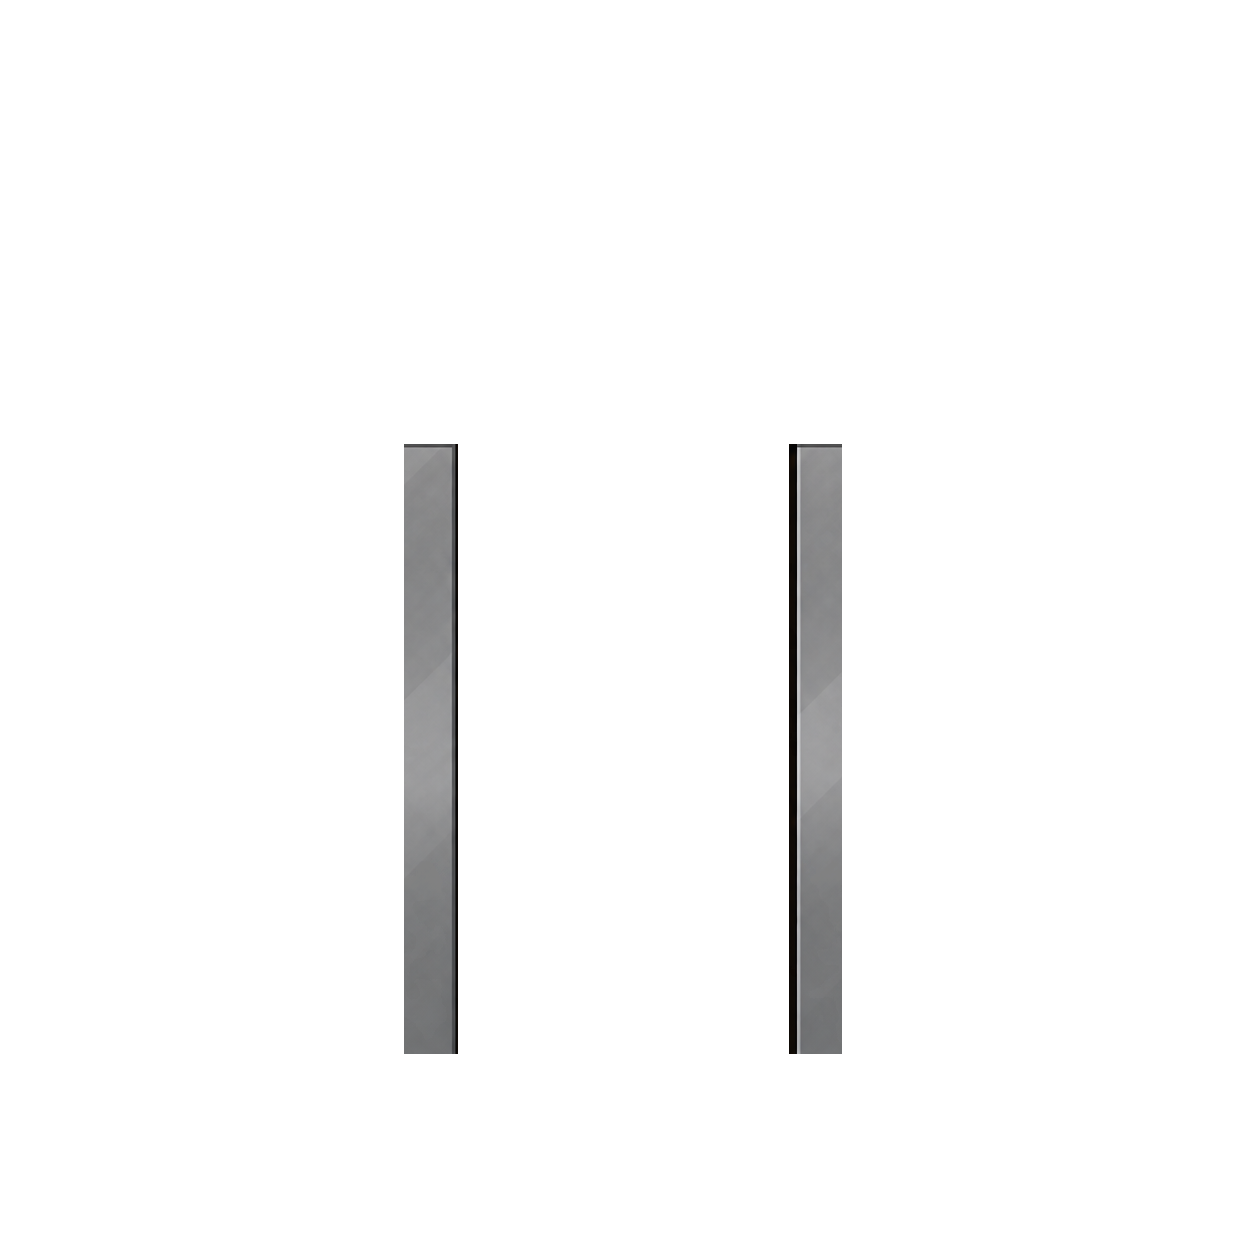
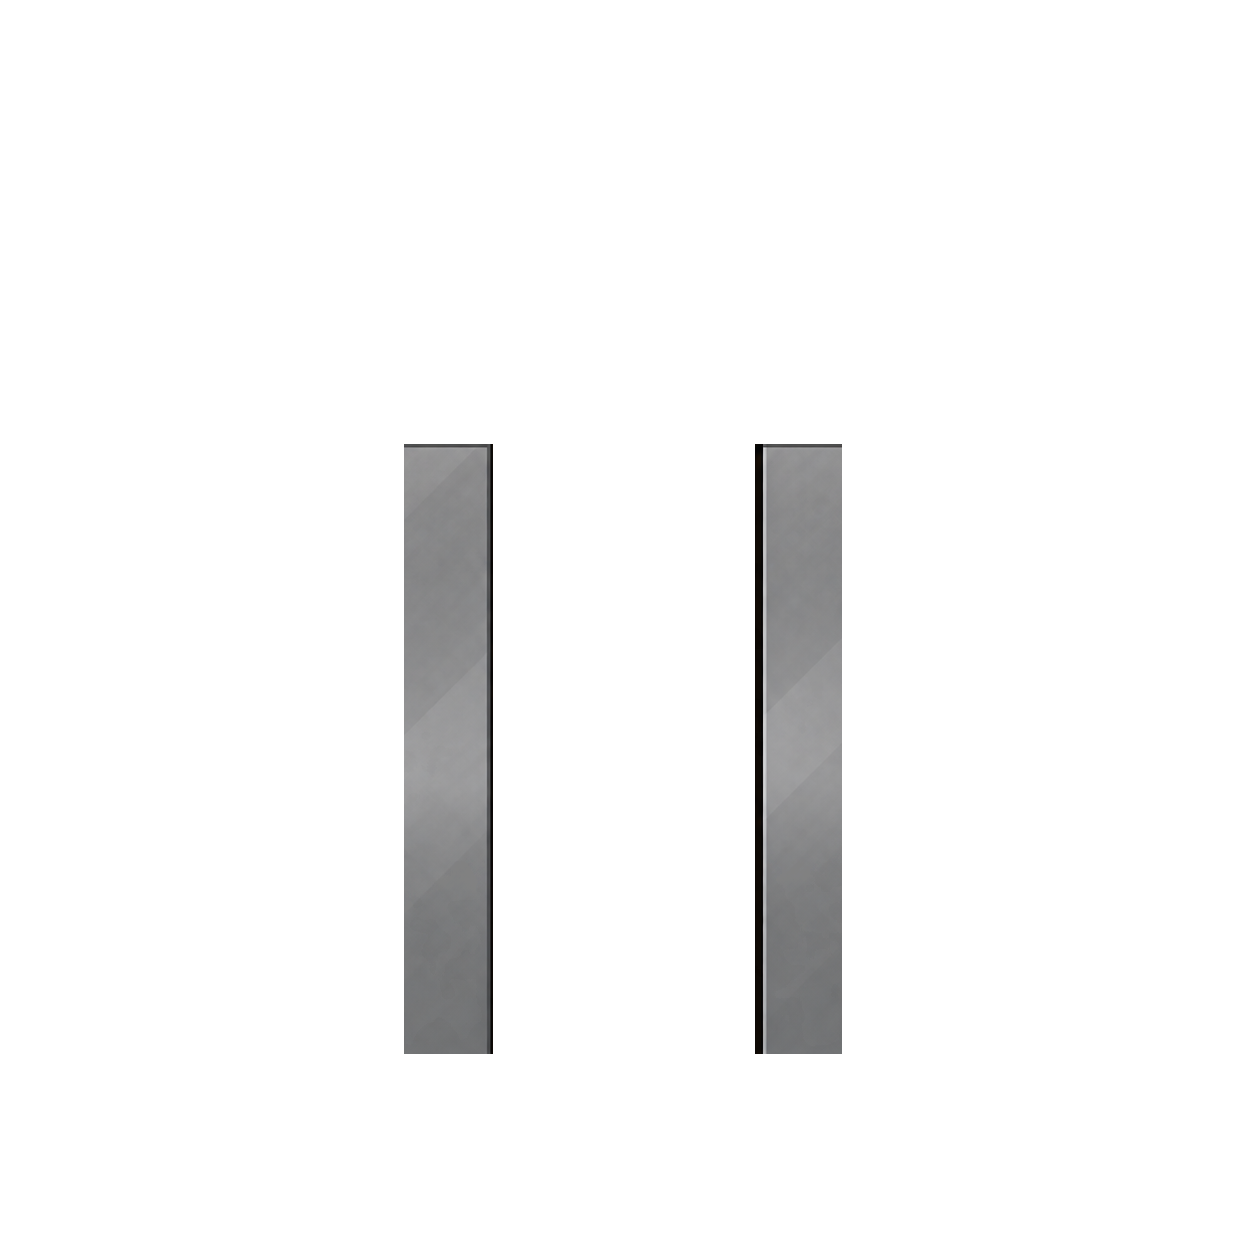
feat(sim): elevator state machine — closed doors, passenger revealed behind them as they open, walks out, doors close, pause, next car; doors follow the sim's door amount (playback sim); updated elevator layers re-imported

Changed region(s): [[0.5909, 0.3421, 0.6531, 0.8397], [0.3421, 0.3421, 0.4043, 0.8397]]

diff --git a/packages/sim/src/tick.ts b/packages/sim/src/tick.ts
@@ -1,6 +1,8 @@
+import type { Point } from "./grid.ts";
 import { advanceStep } from "./steps.ts";
 import {
   type Actor,
+  anchorOf,
   ELEVATOR_DOORS_MS,
   freeAnchors,
   NEED_PERIOD_MS,
@@ -10,51 +12,85 @@ import {
   type World,
 } from "./world.ts";
 
-/** Pause on the elevator threshold before walking off, and the gap between cars (doors close in between). */
-const STEP_OUT_MS = 400;
-const ARRIVAL_GAP_MS = 2200;
+/** Pause on the threshold before walking off, and the pause with closed doors before the next car. */
+const STEP_OUT_MS = 300;
+const CAR_GAP_MS = 600;
+const DOORS_KEY = "elevator-doors";
 
-/**
- * One elevator car per arrival: the passenger appears inside the cabin as the doors open (ELEVATOR_DOORS_MS),
- * pauses, then walks out — to their work when it is already assigned, otherwise to a free corridor spot — so
- * the doors can close before the next car. Proximity keeps the doors open while anybody is in or at the car.
- */
-function arrive(world: World): void {
-  const a = world.arrivals;
-  const next = a.queue[0];
-  if (next === undefined || world.time < a.nextAt) {
+/** The car interior and its threshold: while anybody visible stands here, the doors stay open. */
+const inCarZone = (world: World, actor: Actor, car: Point): boolean =>
+  !actor.hidden &&
+  Math.abs(actor.tile.x - car.x) <= 3 &&
+  actor.tile.y >= car.y - 1 &&
+  actor.tile.y <= car.y + 4;
+
+/** Advances the elevator's doors and delivers one queued passenger per car (see `Elevator`). */
+function runElevator(world: World, dtMs: number): void {
+  const e = world.elevator;
+  const floorId = world.floors.keys().next().value;
+  const car = floorId === undefined ? undefined : anchorOf(world, floorId, "car")?.at;
+  if (car === undefined) {
     return;
   }
-  if (a.carAt === 0) {
-    // The car arrives: the passenger becomes visible inside the cabin while the doors part.
-    a.carAt = world.time + ELEVATOR_DOORS_MS;
-    world.held.add("elevator-doors");
-    const passenger = world.actors.get(next);
-    if (passenger !== undefined) {
-      passenger.hidden = false;
-      passenger.facing = "s";
+  const occupied = [...world.actors.values()].some((a) => inCarZone(world, a, car));
+  switch (e.phase) {
+    case "closed": {
+      const next = e.queue[0];
+      if (next !== undefined && world.time >= e.nextAt) {
+        // The car arrives: the passenger stands behind the closed doors and shows through as they part.
+        const passenger = world.actors.get(next);
+        if (passenger !== undefined) {
+          passenger.hidden = false;
+          passenger.facing = "s";
+          passenger.pos = { ...car };
+          passenger.tile = { ...car };
+        }
+        e.passenger = next;
+        e.phase = "opening";
+      } else if (occupied) {
+        // Somebody walked up to the car from the office (a visitor leaving).
+        e.phase = "opening";
+      }
+      break;
     }
-    return;
+    case "opening": {
+      e.amount = Math.min(1, e.amount + dtMs / ELEVATOR_DOORS_MS);
+      if (e.amount === 1) {
+        e.phase = "open";
+        const passenger = e.passenger === null ? undefined : world.actors.get(e.passenger);
+        e.queue = e.queue.filter((id) => id !== e.passenger);
+        e.passenger = null;
+        if (passenger !== undefined) {
+          const spot = world.rng.pick(freeAnchors(world, passenger.floorId, "wander"))?.at ?? {
+            x: car.x,
+            y: car.y + 5,
+          };
+          setSteps(passenger, [
+            { kind: "dwell", activity: "idle", facing: "s", until: null, ms: STEP_OUT_MS },
+            ...(passenger.steps.length > 0
+              ? passenger.steps
+              : walkSteps(world, passenger, passenger.floorId, spot)),
+          ]);
+        }
+      }
+      break;
+    }
+    case "open": {
+      if (!occupied) {
+        e.phase = "closing";
+      }
+      break;
+    }
+    case "closing": {
+      e.amount = Math.max(0, e.amount - dtMs / ELEVATOR_DOORS_MS);
+      if (e.amount === 0) {
+        e.phase = "closed";
+        e.nextAt = world.time + CAR_GAP_MS;
+      }
+      break;
+    }
   }
-  if (world.time < a.carAt) {
-    return;
-  }
-  a.queue.shift();
-  a.carAt = 0;
-  a.nextAt = world.time + ARRIVAL_GAP_MS;
-  world.held.delete("elevator-doors");
-  const actor = world.actors.get(next);
-  if (actor === undefined) {
-    return;
-  }
-  const spot = world.rng.pick(freeAnchors(world, actor.floorId, "wander"))?.at ?? {
-    x: actor.tile.x,
-    y: actor.tile.y + 2,
-  };
-  setSteps(actor, [
-    { kind: "dwell", activity: "idle", facing: "s", until: null, ms: STEP_OUT_MS },
-    ...(actor.steps.length > 0 ? actor.steps : walkSteps(world, actor, actor.floorId, spot)),
-  ]);
+  world.animations.set(DOORS_KEY, e.amount);
 }
 
 export function tick(
@@ -63,10 +99,10 @@ export function tick(
   onIdle: (world: World, actor: Actor) => void,
 ): void {
   world.time += dtMs;
-  arrive(world);
+  runElevator(world, dtMs);
   for (const actor of world.actors.values()) {
-    if (world.arrivals.queue.includes(actor.id)) {
-      // Waiting in the elevator car.
+    if (world.elevator.queue.includes(actor.id)) {
+      // Waiting in the elevator car (hidden, or standing behind the doors as they open).
       continue;
     }
     actor.animTime += dtMs;

diff --git a/packages/sim/src/world.ts b/packages/sim/src/world.ts
@@ -69,11 +69,23 @@ export type Actor = {
 
 export type Floor = { template: FloorTemplate; grid: Grid; reservations: Map<string, AgentId> };
 
+export type ElevatorPhase = "closed" | "opening" | "open" | "closing";
 /**
- * Everybody enters by elevator: spawned actors wait hidden in the car and step out one at a time. `carAt` is
- * when the arriving car's doors are fully open (0 while no car is called), `nextAt` when the next car may come.
+ * Everybody enters by elevator. Newcomers wait hidden in `queue`; one at a time a car "arrives": the passenger is
+ * revealed inside the car behind the closed doors, the doors open (`amount` 0 → 1), the passenger walks out, the
+ * doors stay open while anybody is in the car or on its threshold, close, pause, and the next car comes. Anyone
+ * walking into the car from the office (a leaving visitor) opens the doors the same way.
  */
-export type Arrivals = { queue: AgentId[]; carAt: number; nextAt: number };
+export type Elevator = {
+  queue: AgentId[];
+  phase: ElevatorPhase;
+  /** Door position, 0 closed … 1 open; the renderer maps it onto the door frames. */
+  amount: number;
+  /** The passenger of the current car, waiting for the doors to open. */
+  passenger: AgentId | null;
+  /** Earliest time the next car may arrive (a pause after the doors close). */
+  nextAt: number;
+};
 
 export type World = {
   time: number;
@@ -81,9 +93,9 @@ export type World = {
   floors: Map<string, Floor>;
   actors: Map<AgentId, Actor>;
   outbox: SimEvent[];
-  arrivals: Arrivals;
-  /** Proximity animations the simulation holds open, by sprite key (`elevator` while a car is arriving). */
-  held: Set<string>;
+  elevator: Elevator;
+  /** Animation positions the simulation drives, by sprite key (`elevator-doors` → door amount 0…1). */
+  animations: Map<string, number>;
 };
 
 export const SPEED_TILES_PER_S = 3;
@@ -97,8 +109,8 @@ export const createWorld = (seed: string): World => ({
   floors: new Map(),
   actors: new Map(),
   outbox: [],
-  arrivals: { queue: [], carAt: 0, nextAt: 0 },
-  held: new Set(),
+  elevator: { queue: [], phase: "closed", amount: 0, passenger: null, nextAt: 0 },
+  animations: new Map(),
 });
 
 export function addFloor(world: World, template: FloorTemplate): void {
@@ -178,7 +190,7 @@ export function spawnActor(
   };
   world.actors.set(id, actor);
   if (arriving) {
-    world.arrivals.queue.push(id);
+    world.elevator.queue.push(id);
   }
   return actor;
 }
@@ -189,7 +201,10 @@ export function removeActor(world: World, id: AgentId): void {
     release(world, actor);
     world.actors.delete(id);
   }
-  world.arrivals.queue = world.arrivals.queue.filter((queued) => queued !== id);
+  world.elevator.queue = world.elevator.queue.filter((queued) => queued !== id);
+  if (world.elevator.passenger === id) {
+    world.elevator.passenger = null;
+  }
 }
 
 /** Cells occupied by other actors standing still (walking actors are transient and ignored). */

diff --git a/packages/ui/src/office/plan-view.ts b/packages/ui/src/office/plan-view.ts
@@ -138,11 +138,14 @@ export function createPlanView(
       }
       if (view.frames.length > 1) {
         let frame = view.frame;
-        if (view.item.playback === "near") {
-          // Held open by the simulation (an elevator car arriving) or by whoever stands within reach.
-          const held = world.held.has(view.item.sprite.slice("furniture/".length));
-          const target =
-            held || anyoneNear(people, { ...view.item.at, w: view.item.w, h: view.item.h }) ? 1 : 0;
+        if (view.item.playback === "sim") {
+          // The simulation owns this animation (elevator doors): 0 closed … 1 open.
+          const amount = world.animations.get(view.item.sprite.slice("furniture/".length)) ?? 0;
+          frame = Math.round(amount * (view.frames.length - 1));
+        } else if (view.item.playback === "near") {
+          const target = anyoneNear(people, { ...view.item.at, w: view.item.w, h: view.item.h })
+            ? 1
+            : 0;
           view.amount = approach(view.amount, target, dtMs, NEAR_MS);
           frame = Math.round(view.amount * (view.frames.length - 1));
         } else {

diff --git a/packages/sim/src/office-plan.ts b/packages/sim/src/office-plan.ts
@@ -117,8 +117,8 @@ function workplaces(p: Plan): void {
 }
 
 function sharedSpaces(p: Plan): void {
-  // The elevator is two layers on one footprint: the static cabin under the passengers (floor layer) and the
-  // doors above them, opening frame by frame while a car arrives or somebody stands at the threshold.
+  // The elevator is three layers on one footprint: the static cabin under the passengers (floor layer), the
+  // doors above them (driven by the simulation's elevator state) and the front frame on top.
   p.object(
     "elevator-cabin",
     "VÝTAH",
@@ -131,7 +131,7 @@ function sharedSpaces(p: Plan): void {
     "",
     "elevator-doors",
     { x: 3, y: 23, w: 6, h: 6 },
-    { blocks: false, animation: "open", playback: "near" },
+    { blocks: false, animation: "open", playback: "sim" },
   );
   p.object("elevator-frame", "", "elevator-frame", { x: 3, y: 23, w: 6, h: 6 }, { blocks: false });
   // The reception counter is drawn frontally (four cells tall); the receptionist stands behind it.

diff --git a/packages/sim/src/templates.ts b/packages/sim/src/templates.ts
@@ -38,9 +38,10 @@ export type Furniture = {
   artWidth?: number;
   /**
    * How a multi-frame animation plays: `loop` cycles (bubbling water); `near` scrubs the frames by proximity —
-   * forward while somebody stands within reach (doors opening), backward as they leave (the same frames closing).
+   * forward while somebody stands within reach, backward as they leave; `sim` follows the 0…1 amount the
+   * simulation publishes for the sprite key in `World.animations` (the elevator doors).
    */
-  playback?: "loop" | "near";
+  playback?: "loop" | "near" | "sim";
   /** `floor` draws the art under everybody (rugs, the elevator cabin); default `objects` sorts it with the actors. */
   layer?: "floor" | "objects";
 };

diff --git a/packages/sim/src/office-builder.ts b/packages/sim/src/office-builder.ts
@@ -28,7 +28,7 @@ export type ObjectOptions = {
   blocks?: boolean;
   artWidth?: number;
   animation?: string;
-  playback?: "loop" | "near";
+  playback?: "loop" | "near" | "sim";
   layer?: "floor" | "objects";
 };
 

diff --git a/docs/PLAN.md b/docs/PLAN.md
@@ -234,3 +234,4 @@ Append entries as `- YYYY-MM-DD — <task id or topic> — <outcome> — <follow
 - 2026-09-07 — Elevator arrivals and frame drift — Newcomers no longer pop onto the threshold: `spawnActor` without an explicit place queues the actor hidden in the car; `tick` (now in `tick.ts`) calls one car per arrival (doors held open 700 ms via `world.held`, step out, 400 ms pause, walk to assigned work or a free wander spot, 2.2 s gap so the doors close first); the postman uses the same queue; queued actors are skipped by the tick. Frame drift: the closed elevator frame was drawn ≈5 px narrower and 4 px lower than the others, so the common-crop sequence still jumped; furniture sequences now trim each frame to its own silhouette and resample all to one common size (top-edge drift 22 → 5 grey levels; the spa was re-imported the same way). — Follow-ups: none.
 - 2026-09-07 — Elevator as two layers — Owner's design: static cabin under the passengers, animated doors above them. Added `Furniture.layer` (`floor` art is baked into the cached floor layer), the `car` anchor and a walkable 4 × 4 car interior in the solid shaft; `elevator-cabin` (floor layer) and `elevator-doors` (`open`, proximity playback) share the 6 × 6 footprint. Arrivals: the passenger is revealed inside the car when it is called, walks out once the doors are open; the postman leaves into the car. Converter: `--no-align` keeps the shared crop for art whose outline changes. The single-sprite `elevator` frames were retired; both new keys are stand-ins until the layered art lands. — Follow-ups: import `elevator-cabin` and the `elevator-doors` sequence when delivered (same canvas, outer frame in both).
 - 2026-09-07 — Elevator layers delivered — `elevator-back` (cabin), ten `elevator-doors` frames (panels only) and `elevator-front-frame` imported: the cabin trims to 144 × 125, the other layers register on it through the new `--like` (each import writes `import.json` with source canvas, crop and output size); frame 9 is a one-pixel sliver of fully retracted panels, as it should be. Third object `elevator-frame` above the doors. — Follow-ups: none.
+- 2026-09-07 — Elevator choreography — Owner's spec: doors closed, the newcomer already behind them and revealed through the widening gap, walk out, doors close, next car. The elevator is now a state machine in the simulation (`World.elevator`: closed → opening → open → closing, door amount 0…1, `World.animations` publishes it) instead of proximity: a car arrives only with closed doors after a 600 ms pause, the passenger is placed inside the car and revealed as the doors open, steps out after 300 ms, the doors stay open while anybody is in the car or on the threshold (so a leaving visitor opens them too) and close once the zone is empty. Renderer: `playback: "sim"` maps the amount onto the ten door frames; updated cabin, doors and frame re-imported with the shared crop. — Follow-ups: none.

diff --git a/docs/OFFICE-ART.md b/docs/OFFICE-ART.md
@@ -30,10 +30,12 @@ production geometry lives in code and every destination must be reachable.
   UI shows a red banner if a layout change breaks a route.
 - **Seats by role.** The boss has the boss office; workers take `dev` desks, reviewers `qa`, clerks `analyst`;
   a full zone overflows into any free desk (`assignWork` in `packages/sim/src/intents.ts`).
-- **Arrivals.** Everybody comes by elevator, one car at a time: the passenger appears inside the cabin (a
-  walkable 4 × 4 car behind the doors), the doors open (700 ms), they pause, walk out to their desk or a corridor
-  spot, the doors close and the next car follows 2.2 s later. The cabin is a floor-layer sprite under the actors,
-  the doors an animated sprite above them. The postman arrives the same way, drops the mail beside the reception counter (`mailbox`, state
+- **Arrivals.** Everybody comes by elevator, one car at a time. The passenger is placed inside the car behind
+  the closed doors; the doors open (700 ms) and reveal them through the widening gap, they pause 300 ms and walk
+  out to their desk or a corridor spot; the doors stay open while anybody is in the car or on its threshold,
+  close, wait 600 ms, and the next car brings the next person. The same doors open for a visitor walking back
+  into the car. The cabin is a floor-layer sprite under the actors, the doors follow the simulation's door
+  amount (`playback: "sim"`), the front frame sits on top. The postman arrives the same way, drops the mail beside the reception counter (`mailbox`, state
   `empty`/`full`) and a courier carries it to the boss.
 - **Routing.** A* with cached clearance and turn costs prefers corridor centres and straight runs (walls and
   furniture cost 4 per step alongside, 1.5 two cells away, 1 further; a turn costs 6). Occupied destinations stay

diff --git a/assets/README.md b/assets/README.md
@@ -40,10 +40,10 @@ All sizes derive from one constant, `CELL_PX` in `packages/sim/src/office-plan.t
   below or to the sides. A wrong width is scaled to the footprint and reported in the red banner.
 - One frame per state, `static_f0.png` for most objects; the mailbox has `empty_f0.png` and `full_f0.png`.
   **Animated furniture** (the hot tub's `bubbles`) is a numbered frame set `bubbles_f0.png … bubbles_f9.png`; the
-  plan names the animation the object plays and how: `loop` cycles at 120 ms per frame; `near` (the elevator's
-  `open`) scrubs the frames by proximity — forward while somebody stands within three cells, backward as they
-  leave, so one closed→open sequence serves both opening and closing. Missing frames fall back to `static`. Frames
-  must share one canvas — the converter guarantees that for a sequence.
+  plan names the animation the object plays and how: `loop` cycles at 120 ms per frame; `near` scrubs the frames
+  by proximity — forward while somebody stands within three cells, backward as they leave; `sim` (the elevator's
+  `open`) follows the 0…1 position the simulation publishes, so one closed→open sequence serves both opening and
+  closing. Missing frames fall back to `static`. Frames must share one canvas — the converter guarantees that.
 - **Layered objects** (the elevator): three objects share one footprint and one source canvas. `elevator-cabin`
   (floor layer, under everybody — a passenger stands _inside_ it), `elevator-doors` (`open_f0` closed …
   `open_f9` open, drawn above the passenger, sliding apart as the car arrives) and `elevator-frame` (the shaft's
